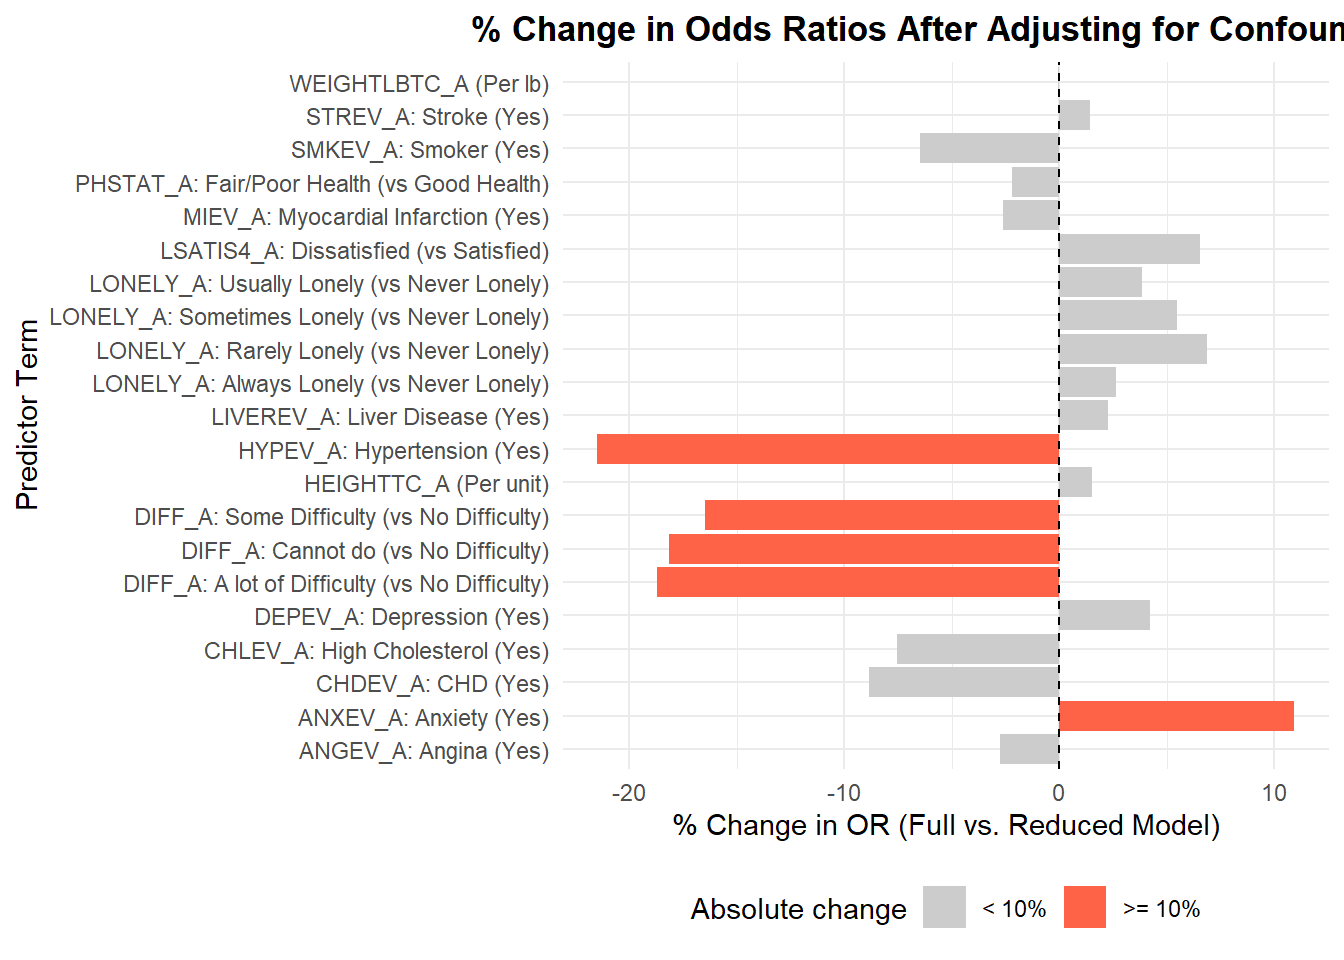
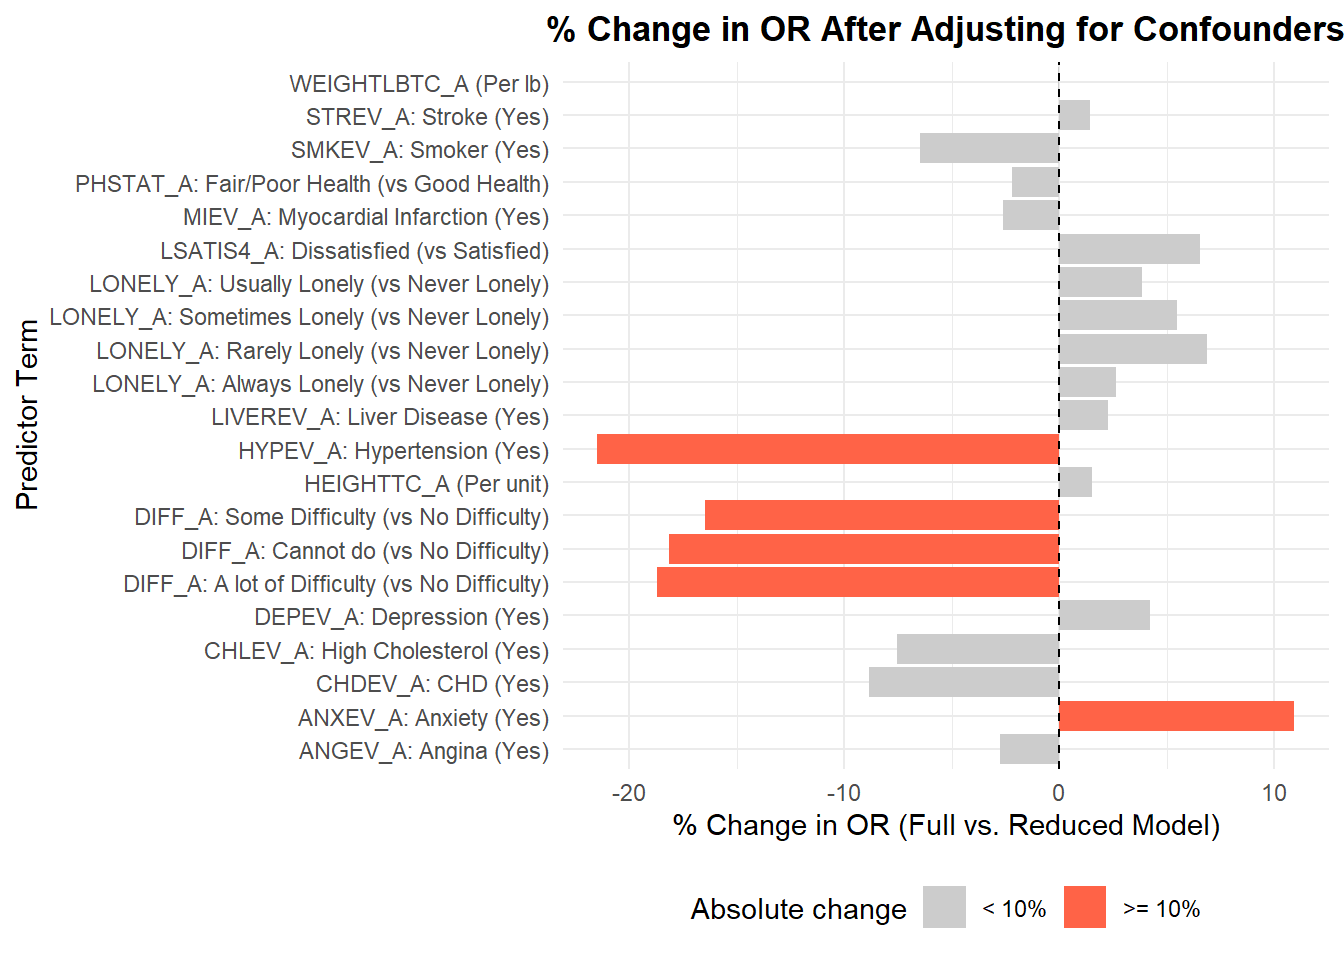
adjusted plot

Changed region(s): [[0.3438, 0.0, 1.0, 0.0625]]

diff --git a/analysis.html b/analysis.html
@@ -2297,7 +2297,7 @@ LONELY_A: Always Lonely (vs Never Lonely)
   coord_flip() +
   scale_fill_manual(values = c(&quot;&lt; 10%&quot; = &quot;grey80&quot;, &quot;&gt;= 10%&quot; = &quot;tomato&quot;)) +
   labs(
-    title = &quot;% Change in Odds Ratios After Adjusting for Confounders&quot;,
+    title = &quot;% Change in OR After Adjusting for Confounders&quot;,
     x = &quot;Predictor Term&quot;,
     y = &quot;% Change in OR (Full vs. Reduced Model)&quot;,
     fill = &quot;Absolute change&quot;
